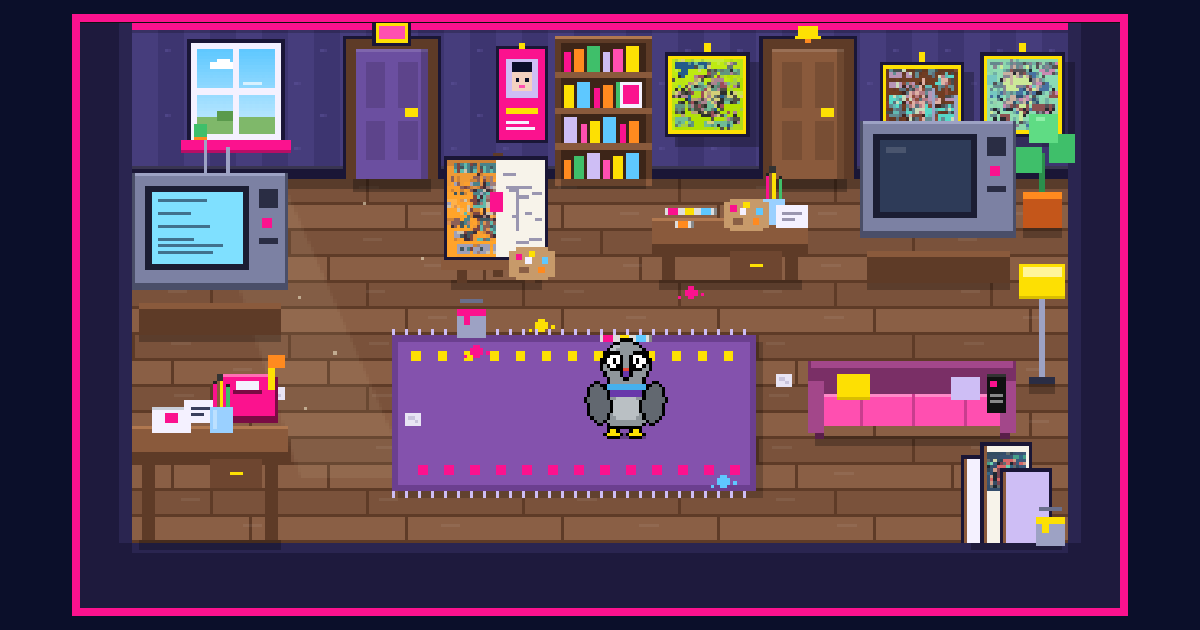
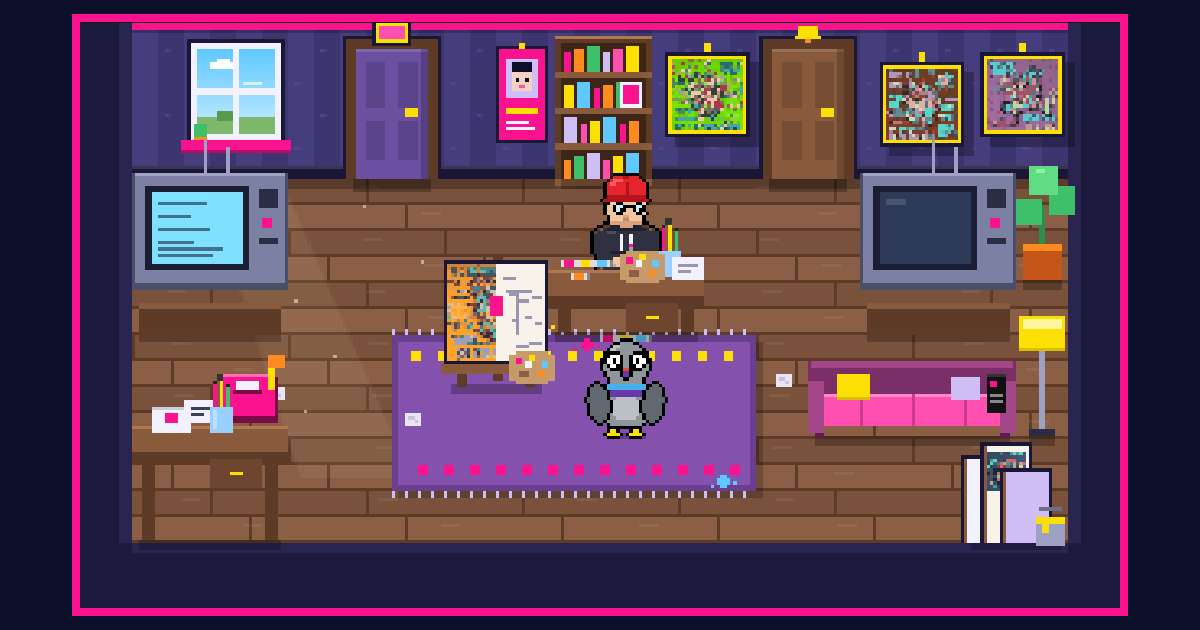
deploy: site from pixel-arcade@1afe4e4
Claude-Session: https://claude.ai/code/session_013KAvZSHLCxWRkDFyyfNRdM

diff --git a/index.html b/index.html
@@ -11,7 +11,7 @@
 <meta property="og:title" content="UMMM… 👀 SEE? 🌀 Paintings + things that pop out 📍 Seoul, Korea">
 <meta property="og:description" content="Pop culture, color & a little bit of chaos. Walk a pixel pigeon through the studio of artist UMSEE (Seoul): gallery, CV, collaborations, interviews.">
 <meta property="og:url" content="https://umsee-studio.github.io/">
-<meta property="og:image" content="https://umsee-studio.github.io/assets/og.png?v=9fc8e9f">
+<meta property="og:image" content="https://umsee-studio.github.io/assets/og.png?v=1afe4e4">
 <meta property="og:image:width" content="1200">
 <meta property="og:image:height" content="630">
 <meta property="og:image:alt" content="A pixel pigeon in the UMSEE studio">
@@ -19,10 +19,10 @@
 <meta name="twitter:card" content="summary_large_image">
 <meta name="twitter:title" content="UMMM… 👀 SEE? 🌀 Paintings + things that pop out 📍 Seoul, Korea">
 <meta name="twitter:description" content="Pop culture, color & a little bit of chaos. Walk a pixel pigeon through the studio of artist UMSEE (Seoul): gallery, CV, collaborations, interviews.">
-<meta name="twitter:image" content="https://umsee-studio.github.io/assets/og.png?v=9fc8e9f">
-<link rel="icon" href="assets/favicon.svg?v=9fc8e9f" type="image/svg+xml">
-<link rel="icon" href="assets/favicon-32.png?v=9fc8e9f" sizes="32x32" type="image/png">
-<link rel="apple-touch-icon" href="assets/apple-touch-icon.png?v=9fc8e9f">
+<meta name="twitter:image" content="https://umsee-studio.github.io/assets/og.png?v=1afe4e4">
+<link rel="icon" href="assets/favicon.svg?v=1afe4e4" type="image/svg+xml">
+<link rel="icon" href="assets/favicon-32.png?v=1afe4e4" sizes="32x32" type="image/png">
+<link rel="apple-touch-icon" href="assets/apple-touch-icon.png?v=1afe4e4">
 <meta name="theme-color" content="#0b0f2a">
 <link rel="preload" href="assets/fonts/Galmuri11.woff2" as="font" type="font/woff2" crossorigin>
 <meta http-equiv="Cache-Control" content="no-cache">
